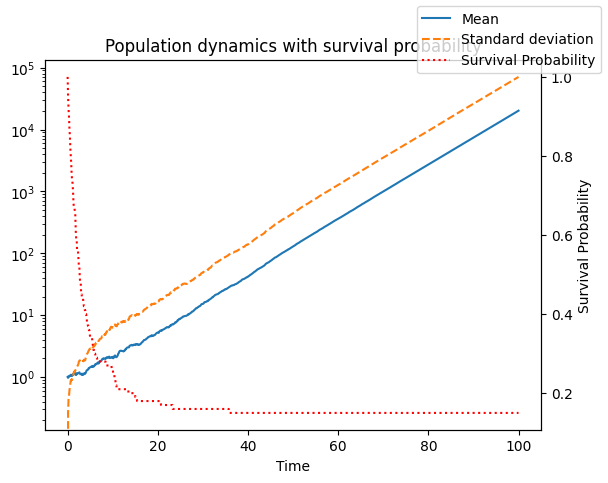
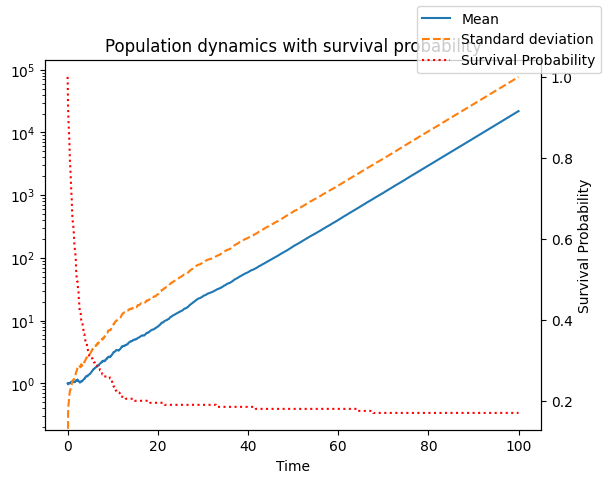
Updated cell examples to produce runtime diagrams

diff --git a/06_cell_population_example/queue_version.py b/06_cell_population_example/queue_version.py
@@ -3,6 +3,8 @@ import matplotlib.pyplot as plt
 import random
 import time
 import multiprocessing
+import pandas as pd
+from process_visualisation import visualise_realisation_runtimes
 
 def generate_next_population(reproduction_probability, mean_lifetime, remaining_time):
     '''
@@ -33,7 +35,7 @@ def generate_next_population(reproduction_probability, mean_lifetime, remaining_
             return 0
 
 
-def run_realisation(n_initial, reproduction_probability, mean_lifetime, output_times):
+def run_realisation(n_initial, reproduction_probability, mean_lifetime, output_times, seed=None):
     '''
     Run a single realisation of the cell population model.
     Parameters:
@@ -44,6 +46,10 @@ def run_realisation(n_initial, reproduction_probability, mean_lifetime, output_t
     Returns:
     ndarray: The number of cells at each time in output_times.
     '''
+
+    if seed is not None:
+        random.seed(seed)
+    start_time = time.time()
 
     # Initialise the output array
     output_populations = np.zeros(len(output_times), dtype=int)
@@ -62,7 +68,7 @@ def run_realisation(n_initial, reproduction_probability, mean_lifetime, output_t
     return output_populations
 
 
-def run_single_realisation(n_initial, reproduction_probability, mean_lifetime, output_times, output_filepath):
+def run_single_realisation(n_initial, reproduction_probability, mean_lifetime, output_times, output_filepath, seed=None):
     '''
     Run a single realisation of the cell population model and save the results to a file.
     Parameters:
@@ -73,8 +79,12 @@ def run_single_realisation(n_initial, reproduction_probability, mean_lifetime, o
     output_filepath (str): The path to save the output plot.
     '''
 
+    start_time = time.time()
+
     # Run the realisation
-    populations = run_realisation(n_initial, reproduction_probability, mean_lifetime, output_times)
+    populations = run_realisation(n_initial, reproduction_probability, mean_lifetime, output_times, seed=seed)
+
+    run_time = time.time() - start_time
 
     # Plot the results
     fig, ax = plt.subplots()
@@ -85,6 +95,10 @@ def run_single_realisation(n_initial, reproduction_probability, mean_lifetime, o
     if max(populations) > 100:
         ax.set_yscale('log')
     fig.savefig(output_filepath)
+
+    plotting_time = time.time() - run_time
+
+    return run_time, plotting_time
 
 
 def run_n_realisations_queue(n_initial, reproduction_probability, mean_lifetime, output_times, n_realisations, queue):
@@ -100,12 +114,20 @@ def run_n_realisations_queue(n_initial, reproduction_probability, mean_lifetime,
     '''
     output_populations = np.zeros((n_realisations, len(output_times)))
 
+    runtimes = np.zeros(n_realisations)
+
+    process_number = int(multiprocessing.current_process().name.split('-')[-1])
+
     for i_realisation in range(n_realisations):
         # Run each realisation and store the results
-        output_populations[i_realisation, :] = run_realisation(n_initial, reproduction_probability, mean_lifetime, output_times)
-    queue.put(output_populations)
+        start_time = time.time()
+        seed = (int(process_number) - 1) * n_realisations + i_realisation
+        output_populations[i_realisation, :] = run_realisation(n_initial, reproduction_probability, mean_lifetime, output_times, seed=seed)
+
+        runtimes[i_realisation] = time.time() - start_time
+    queue.put((output_populations, runtimes, process_number))
     # A print statement so we know when the process has finished
-    print('Finished', multiprocessing.current_process().name)
+    print(f'Process {process_number} is finished')
 
 
 def run_multiple_realisations(n_initial, reproduction_probability, mean_lifetime, output_times, n_realisations, output_filepath, n_process=1):
@@ -137,15 +159,29 @@ def run_multiple_realisations(n_initial, reproduction_probability, mean_lifetime
     # Make a 2D array to store the populations of each realisation at each time
     output_populations = np.zeros((n_realisations, len(output_times)))
 
+    realisation_df = None
+
     for i_process in range(n_process):
         process = processes[i_process]
-        output_populations[i_process * n_per_process:(i_process + 1) * n_per_process, :] = queue.get()
+        new_populations, runtimes, process_number = queue.get()
         print(f'Received data from {i_process + 1} processes after {time.time() - start_time:.2f} seconds')
+
+        output_populations[i_process * n_per_process:(i_process + 1) * n_per_process, :] = new_populations
+
+        new_df = pd.DataFrame({'number': range(n_per_process * (process_number - 1), n_per_process *(process_number)), 'process': [process_number] * n_per_process, 'run_time': runtimes})
+
+        if realisation_df is None:
+            realisation_df = new_df
+        else:
+            realisation_df = pd.concat([realisation_df, new_df])
+
 
     # Calculate the mean and standard deviation of the populations and survival probability at each time
     population_mean = np.mean(output_populations, axis=0)
     population_standard_deviation = np.std(output_populations, axis=0)
     survival_probability = np.sum(output_populations > 0, axis=0) / n_realisations
+
+    running_time = time.time() - start_time
 
     # Plot the results
     fig, ax = plt.subplots()
@@ -161,6 +197,10 @@ def run_multiple_realisations(n_initial, reproduction_probability, mean_lifetime
     ax.set_title('Population dynamics with survival probability')
     fig.savefig(output_filepath, bbox_inches='tight')
 
+    plotting_time = time.time() - start_time - running_time
+
+    return running_time, plotting_time, realisation_df
+
 if __name__ == '__main__':
     # Some sample calls of the functions
     output_times = np.linspace(0, 100, 1000)
@@ -170,24 +210,18 @@ if __name__ == '__main__':
     mean_lifetime = 1
 
     # Time and run a single realisation 
-    # Choose a seed for reproducibility and to guarantee the population dies out
-    random.seed(0)
-    start_time = time.time()
-    single_realisation_population = run_single_realisation(1, reproduction_probability, mean_lifetime, output_times, '06_cell_population_example/single_quick_death.png')
-    print('Single realisation quick death time:', time.time() - start_time)
+    run_time, plotting_time = run_single_realisation(1, reproduction_probability, mean_lifetime, output_times, '06_cell_population_example/single_quick_death.png', seed=0)
+    print(f'Single realisation quick death running time: {run_time}s; plotting time: {plotting_time}s')
 
     # Time and run a single realisation
-    # Choose a seed for reproducibility and to guarantee the population grows
-    random.seed(42)
-    start_time = time.time()
-    run_single_realisation(1, reproduction_probability, mean_lifetime, output_times, '06_cell_population_example/single_growing_population.png')
-    print('Single realisation growing population:', time.time() - start_time)
+    run_time, plotting_time = run_single_realisation(1, reproduction_probability, mean_lifetime, output_times, '06_cell_population_example/single_growing_population.png', seed=42)
+    print(f'Growing population realisation quick death running time: {run_time}s; plotting time: {plotting_time}s')
 
     # Time and run multiple realisations
-    start_time = time.time()
-    n_process = 4
-    run_multiple_realisations(1, reproduction_probability, mean_lifetime, output_times, 100, '06_cell_population_example/multiple_realisations.png', n_process=n_process)
-    print('Multiple realisations time:', time.time() - start_time)
+    run_time, plotting_time, realisation_df = run_multiple_realisations(1, reproduction_probability, mean_lifetime, output_times, 200, '06_cell_population_example/multiple_realisations.png', n_process=4)
+    print(f'Multiple realisations running time: {run_time}s; plotting time: {plotting_time}s')
+
+    visualise_realisation_runtimes(realisation_df, '06_cell_population_example/queue_runtimes.png')
 
 
 

diff --git a/06_cell_population_example/pool_version.py b/06_cell_population_example/pool_version.py
@@ -2,6 +2,7 @@ import numpy as np
 import matplotlib.pyplot as plt
 import random
 import time
+import multiprocessing
 from process_visualisation import visualise_realisation_runtimes
 import pandas as pd
 
@@ -49,6 +50,8 @@ def run_realisation(n_initial, reproduction_probability, mean_lifetime, output_t
     if seed is not None:
         random.seed(seed)
 
+    start_time = time.time()
+
     # Initialise the output array
     output_populations = np.zeros(len(output_times), dtype=int)
     output_populations[0] = n_initial
@@ -63,7 +66,14 @@ def run_realisation(n_initial, reproduction_probability, mean_lifetime, output_t
             # If the population has died out, stop the simulation
             break
 
-    return output_populations
+    runtime = time.time() - start_time
+    try:
+        process_number = int(multiprocessing.current_process().name.split('-')[-1])
+    except ValueError:
+        process_number = 0
+    realisation_number = seed
+
+    return output_populations, runtime, process_number, realisation_number
 
 
 def run_single_realisation(n_initial, reproduction_probability, mean_lifetime, output_times, output_filepath, seed=None):
@@ -77,12 +87,10 @@ def run_single_realisation(n_initial, reproduction_probability, mean_lifetime, o
     output_filepath (str): The path to save the output plot.
     '''
 
-    start_time = time.time()
-
     # Run the realisation
-    populations = run_realisation(n_initial, reproduction_probability, mean_lifetime, output_times, seed=seed)
+    populations, run_time, process_number, realisation_number = run_realisation(n_initial, reproduction_probability, mean_lifetime, output_times, seed=seed)
 
-    run_time = time.time() - start_time
+    start_time = time.time()
 
     # Plot the results
     fig, ax = plt.subplots()
@@ -94,12 +102,16 @@ def run_single_realisation(n_initial, reproduction_probability, mean_lifetime, o
         ax.set_yscale('log')
     fig.savefig(output_filepath)
 
-    plotting_time = time.time() - start_time - run_time
+    plotting_time = time.time() - start_time
 
     return run_time, plotting_time
 
 
-def run_multiple_realisations(n_initial, reproduction_probability, mean_lifetime, output_times, n_realisations, output_filepath):
+def run_realisation_interface(args):
+    return run_realisation(*args)
+
+
+def run_multiple_realisations(n_initial, reproduction_probability, mean_lifetime, output_times, n_realisations, output_filepath, n_processes=1):
     '''
     Run multiple realisations of the cell population model and plot the results.
     Parameters:
@@ -111,30 +123,22 @@ def run_multiple_realisations(n_initial, reproduction_probability, mean_lifetime
     output_filepath (str): The path to save the output plot
     '''
 
-    realisation_df = None
-
     start_time = time.time()
 
+    arguments = [(n_initial, reproduction_probability, mean_lifetime, output_times, i) for i in range(n_realisations)]
+
+    with multiprocessing.Pool(4) as p:
+        output_list = p.map(run_realisation_interface, arguments, chunksize=1)
+
     # Make a 2D array to store the populations of each realisation at each time
-    output_populations = np.zeros((n_realisations, len(output_times)))
-
-    for i_realisation in range(n_realisations):
-        # Run each realisation and store the results
-        realisation_start_time = time.time()
-        output_populations[i_realisation, :] = run_realisation(n_initial, reproduction_probability, mean_lifetime, output_times, seed=i_realisation)
-
-        # This if-block part of the instrumentation for producing figures, you can ignore it
-        if realisation_df is None:
-            realisation_df = pd.DataFrame({'number': i_realisation, 'process': 0, 'run_time': time.time() - realisation_start_time}, index=[0])
-        else:
-            realisation_df = pd.concat([realisation_df, pd.DataFrame({'number': i_realisation, 'process': 0, 'run_time': time.time() - realisation_start_time}, index=[0])])            
+    output_populations = np.array([output[0] for output in output_list])
 
     # Calculate the mean and standard deviation of the populations and survival probability at each time
     population_mean = np.mean(output_populations, axis=0)
     population_standard_deviation = np.std(output_populations, axis=0)
     survival_probability = np.sum(output_populations > 0, axis=0) / n_realisations
 
-    running_time = time.time() - start_time
+    run_time = time.time() - start_time
 
     # Plot the results
     fig, ax = plt.subplots()
@@ -150,9 +154,11 @@ def run_multiple_realisations(n_initial, reproduction_probability, mean_lifetime
     ax.set_title('Population dynamics with survival probability')
     fig.savefig(output_filepath, bbox_inches='tight')
 
-    plotting_time = time.time() - start_time - running_time
+    plotting_time = time.time() - run_time - start_time
 
-    return running_time, plotting_time, realisation_df
+    realisation_df = pd.DataFrame(output_list[1:], columns=['population', 'run_time', 'process', 'number'])
+
+    return run_time, plotting_time, realisation_df
 
 if __name__ == '__main__':
     # Some sample calls of the functions
@@ -171,8 +177,8 @@ if __name__ == '__main__':
     print(f'Growing population realisation quick death running time: {run_time}s; plotting time: {plotting_time}s')
 
     # Time and run multiple realisations
-    run_time, plotting_time, realisation_df = run_multiple_realisations(1, reproduction_probability, mean_lifetime, output_times, 200, '06_cell_population_example/multiple_realisations.png')
+    run_time, plotting_time, realisation_df = run_multiple_realisations(1, reproduction_probability, mean_lifetime, output_times, 200, '06_cell_population_example/multiple_realisations.png', n_processes=4)
     print(f'Multiple realisations running time: {run_time}s; plotting time: {plotting_time}s')
 
-    visualise_realisation_runtimes(realisation_df, '06_cell_population_example/serial_runtimes.png')
+    visualise_realisation_runtimes(realisation_df, '06_cell_population_example/pool_runtimes.png')
 

diff --git a/06_cell_population_example/process_visualisation.py b/06_cell_population_example/process_visualisation.py
@@ -1,0 +1,33 @@
+import pandas as pd
+import numpy as np
+import matplotlib.pyplot as plt
+
+def visualise_realisation_runtimes(realisation_df, filename):  
+    fig, ax = plt.subplots()
+    process_numbers = [int(process_number) for process_number in realisation_df['process'].unique()]
+    process_numbers.sort()
+
+    colour_palette = ['orange', 'blue', 'green', 'red', 'purple', 'brown', 'pink', 'grey', 'white', 'yellow']
+
+    for process_number in process_numbers:
+        process_label = f'Process {process_number}'
+        process_df = realisation_df[realisation_df['process'] == process_number]
+        run_times = process_df['run_time'].values
+        realisation_numbers = process_df['number'].values
+        lefts = np.cumsum(run_times)
+        lefts = np.insert(lefts[:-1], 0, 0)
+        colours = colours = [colour_palette[realisation_number % len(colour_palette)] for realisation_number in realisation_numbers]
+        
+        ax.barh(process_label, run_times, left=lefts, color=colours, edgecolor='black')
+        
+        x_min, x_max = ax.get_xlim()
+        label_threshold = 0.03 * (x_max - x_min)
+
+        for i, run_time in enumerate(run_times):
+            if run_time > label_threshold:
+                ax.text(lefts[i] + run_time / 2, process_label, realisation_numbers[i], ha='center', va='center')
+
+    ax.set_xlabel('Run Time (s)')
+        
+
+    fig.savefig(filename, bbox_inches='tight')
